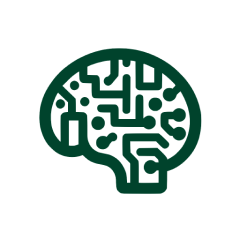
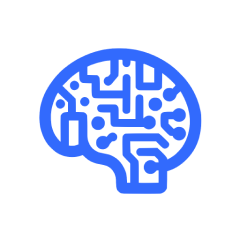
fix landing page ui by change UI feature color and center pricing

Changed region(s): [[0.1458, 0.175, 0.8458, 0.8167]]

diff --git a/app/page.tsx b/app/page.tsx
@@ -8,18 +8,22 @@ export default function Index() {
     {
       icon: '/respond.png',
       title: 'Rapid Response Learning',
+      description:'Purus sagittis diam consequat neque risus nam commodo. Vitae risus faucibus habitant mi scelerisque quam eget enim non.'
     },
     {
       icon: '/co-system.png',
       title: 'Collaborative System',
+      description:'Purus sagittis diam consequat neque risus nam commodo. Vitae risus faucibus habitant mi scelerisque quam eget enim non.'
     },
     {
       icon: '/crit-thinking.png',
       title: 'Enhance Critical Thinking',
+      description:'Purus sagittis diam consequat neque risus nam commodo. Vitae risus faucibus habitant mi scelerisque quam eget enim non.'
     },
     {
       icon: '/brain.png',
       title: 'Generative AI-powered',
+      description:'Purus sagittis diam consequat neque risus nam commodo. Vitae risus faucibus habitant mi scelerisque quam eget enim non.'
     },
   ];
   const plans = [
@@ -123,10 +127,10 @@ export default function Index() {
                 animate={{ opacity: 1, y: 0 }}
                 transition={{ duration: 0.6 }}
               >
-                <div className="text-blue-600 text-base font-semibold mb-2">Best learning Platform</div>
+                <div className="text-light-primary text-base font-semibold mb-2">Best learning Platform</div>
                 <h1 className="text-3xl md:text-6xl font-bold text-gray-900 mb-4 text-center md:text-left">
-                  Top Quality <span className="text-blue-600">Education</span> Is Now More Accessible{' '}
-                  <span className="text-blue-600">Than Ever!</span>
+                  Top Quality <span className="text-light-primary">Education</span> Is Now More Accessible{' '}
+                  <span className="text-light-primary">Than Ever!</span>
                 </h1>
                 <p className="text-gray-600 mb-6 md:w-3/4">
                   Odio pretium cras proin sit duis vel eget tincidunt vel. Pulvinar luctus id aliquam
@@ -175,7 +179,7 @@ export default function Index() {
           animate={{ opacity: 1, y: 0 }}
           transition={{ duration: 0.6 }}
         >
-          <h2 className="text-blue-600 text-base font-semibold mb-2">Features</h2>
+          <h2 className="text-light-primary text-base font-semibold mb-2">Features</h2>
           <h1 className="text-3xl md:text-5xl font-bold text-gray-900 mb-4">What Can it Do?</h1>
           <p className="text-gray-600 mb-8">
             Tempus vel nulla feugiat ut massa enim tincidunt sit.
@@ -196,18 +200,21 @@ export default function Index() {
                 <Image
                   src={feature.icon}
                   alt={feature.title}
-                  width={50}
-                  height={50}
+                  width={100}
+                  height={120}
                   className="mx-auto"
                 />
               </div>
               <h3 className="text-2xl font-semibold text-gray-900 mb-2">{feature.title}</h3>
+              <p className="text-gray-500 text-center">
+                {feature.description}
+            </p>
             </motion.div>
           ))}
         </div>
       </div>
       {/* Pricing Plan Section */}
-      <div id="pricing-plan" className="py-16 bg-[#FBFCFD] min-h-screen px-4">
+      <div id="pricing-plan" className="py-16 bg-[#FBFCFD] min-h-screen px-4 flex items-center justify-center">
         <div className="container mx-auto px-4">
           <h2 className="text-3xl md:text-5xl font-bold text-center text-gray-900 mb-12">
             Pricing Plan
@@ -222,7 +229,7 @@ export default function Index() {
                 viewport={{ once: true }}
                 transition={{ duration: 0.8, ease: 'easeOut' }}
               >
-                <h3 className="text-blue-600 font-semibold mb-2 text-xl">
+                <h3 className="text-light-primary font-semibold mb-2 text-xl">
                   {plan.title}
                 </h3>
                 <p className="text-gray-600 mb-4 text-center">
@@ -241,7 +248,7 @@ export default function Index() {
                   {plan.features.map((feature, i) => (
                     <li key={i} className="flex items-center">
                       <svg
-                        className="w-5 h-5 text-blue-600 mr-2"
+                        className="w-5 h-5 text-light-primary mr-2"
                         fill="none"
                         stroke="currentColor"
                         strokeWidth="2"

diff --git a/components/Sidebar.tsx b/components/Sidebar.tsx
@@ -5,7 +5,7 @@ import CoursesCard from '@/app/(authenticated)/app/components/CoursesCard';
 import useUser from '@/hooks/useUser';
 import { Avatar, Badge, Button, Divider, Heading } from '@chakra-ui/react';
 import Logo from '@/components/Logo';
-import { Chat, Club, House, PlusCircle, Question, Table } from "@phosphor-icons/react";
+import { Chat, Club, House, PlusCircle, Question, Table, ChartLineUp} from "@phosphor-icons/react";
 import { usePathname } from 'next/navigation'
 import { Link } from '@chakra-ui/next-js'
 import FcmTokenComp from './FirebaseForeground';
